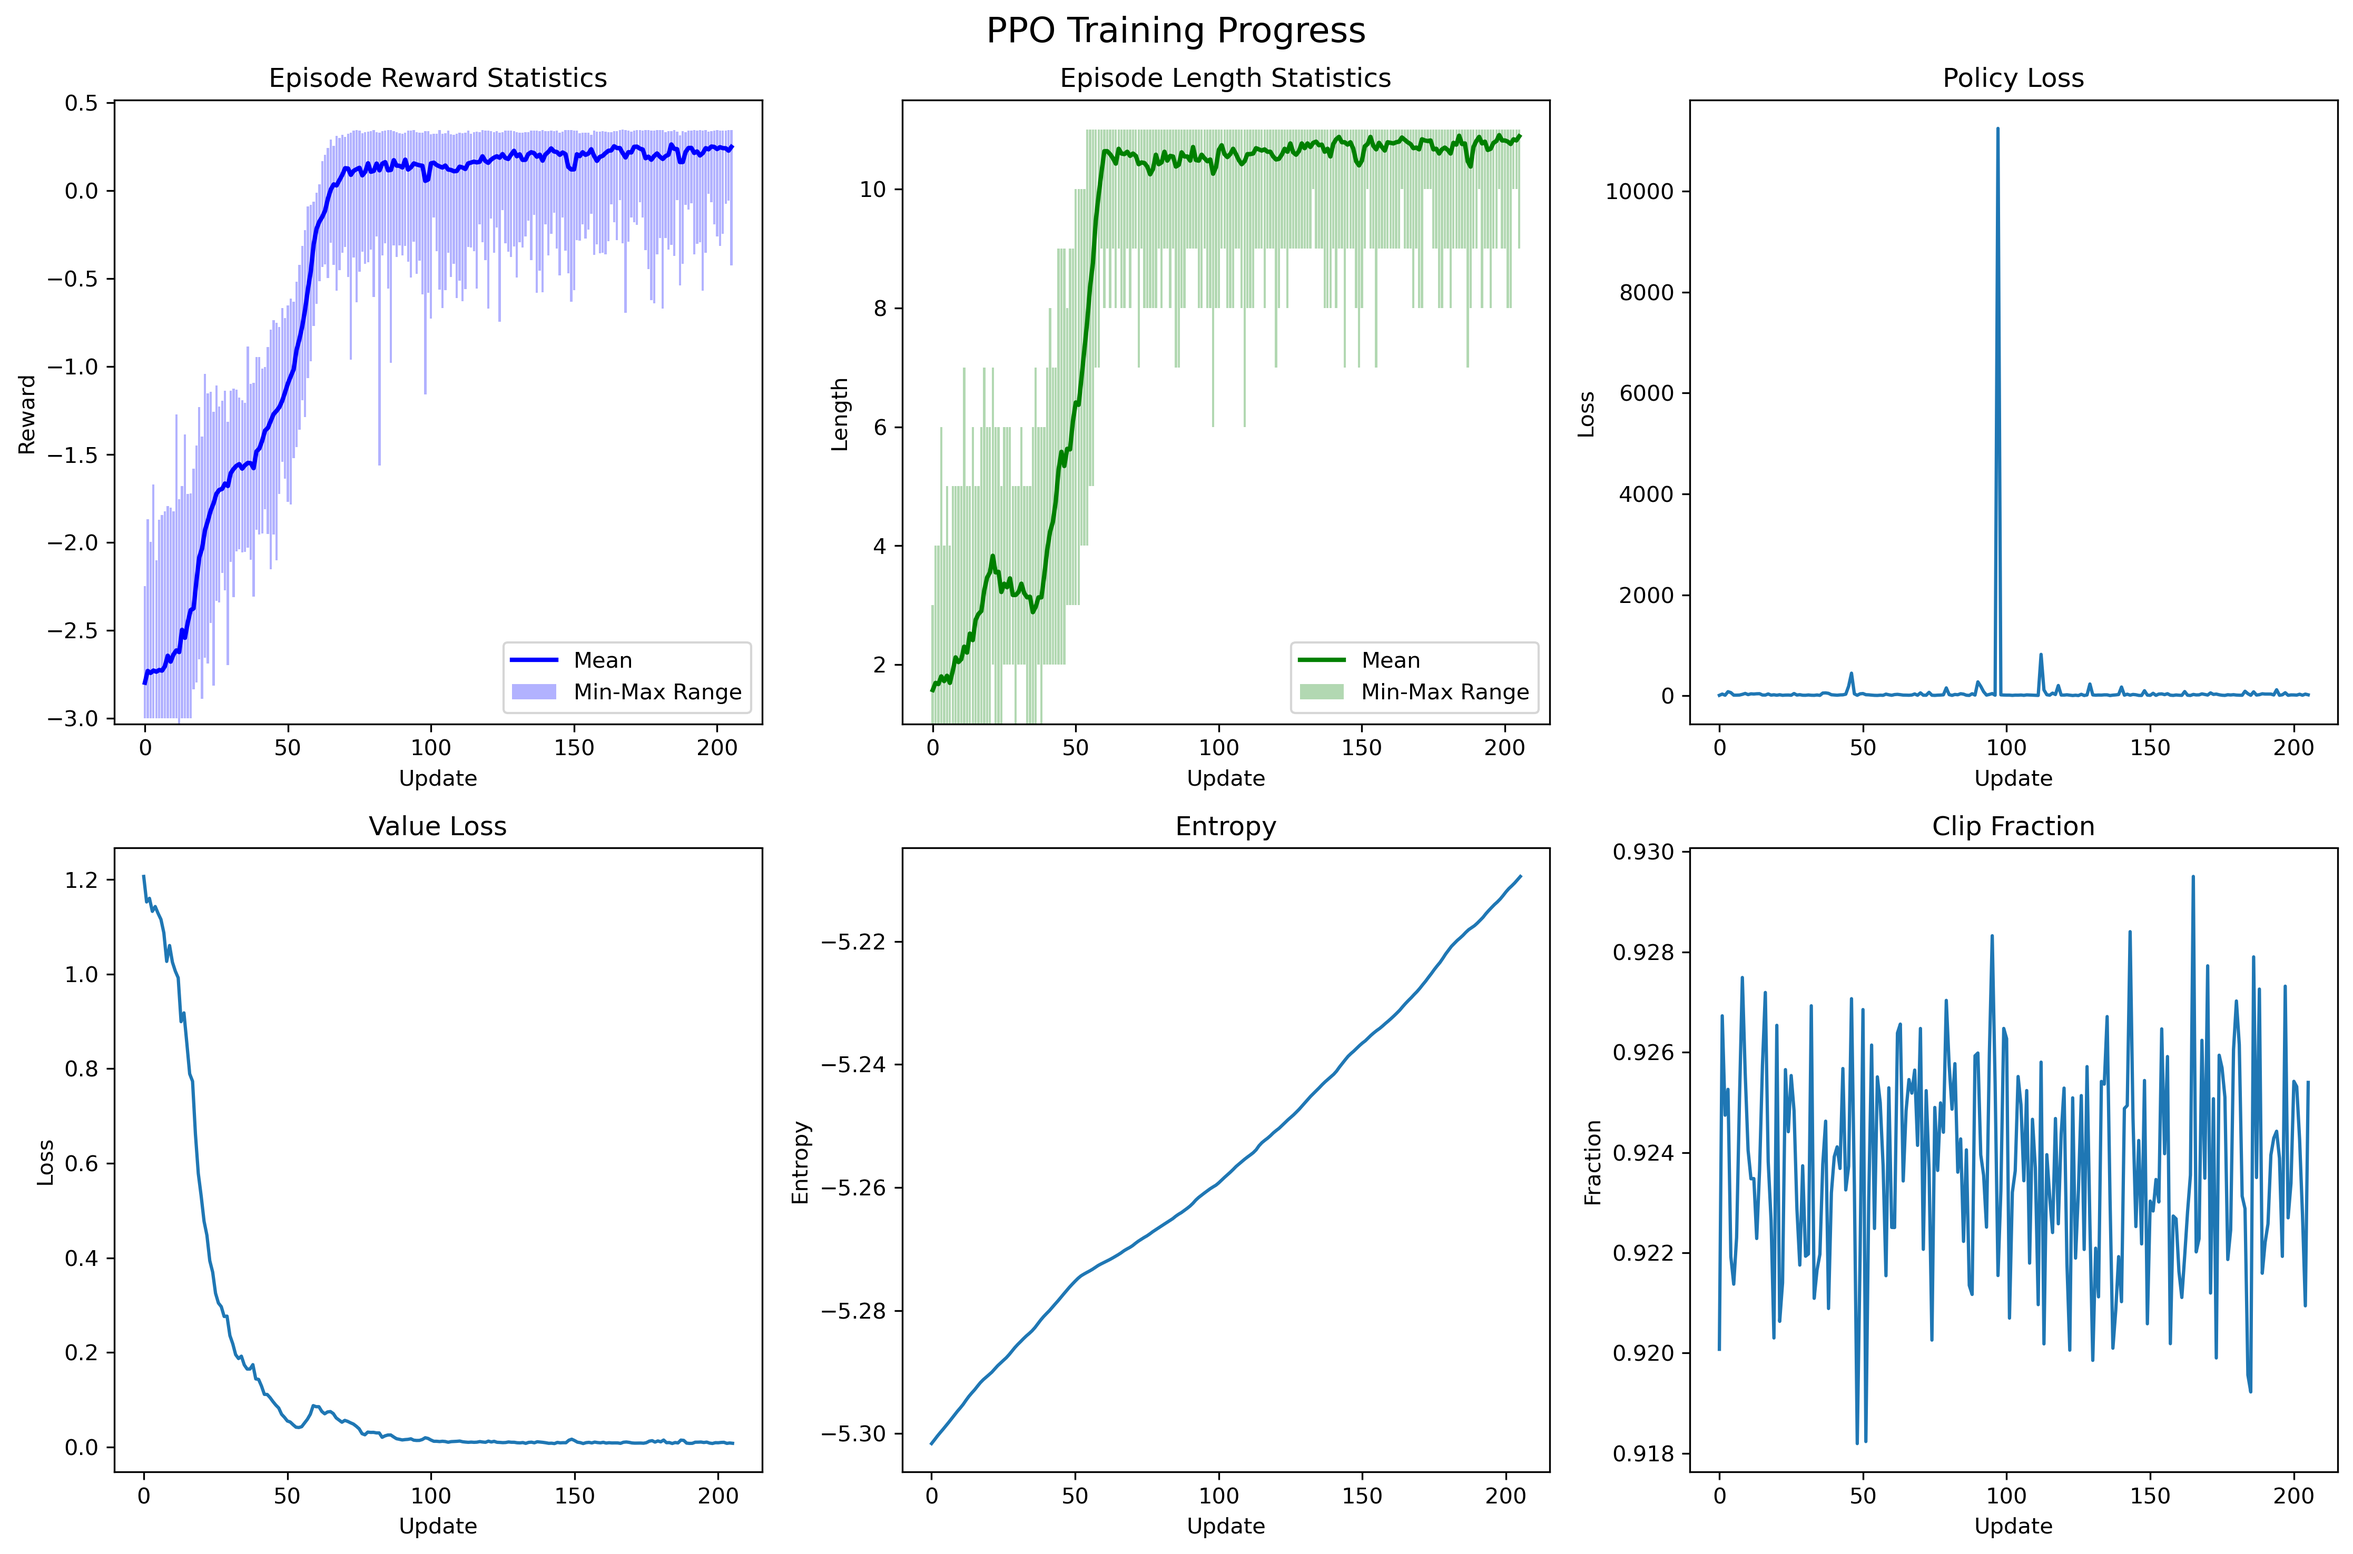
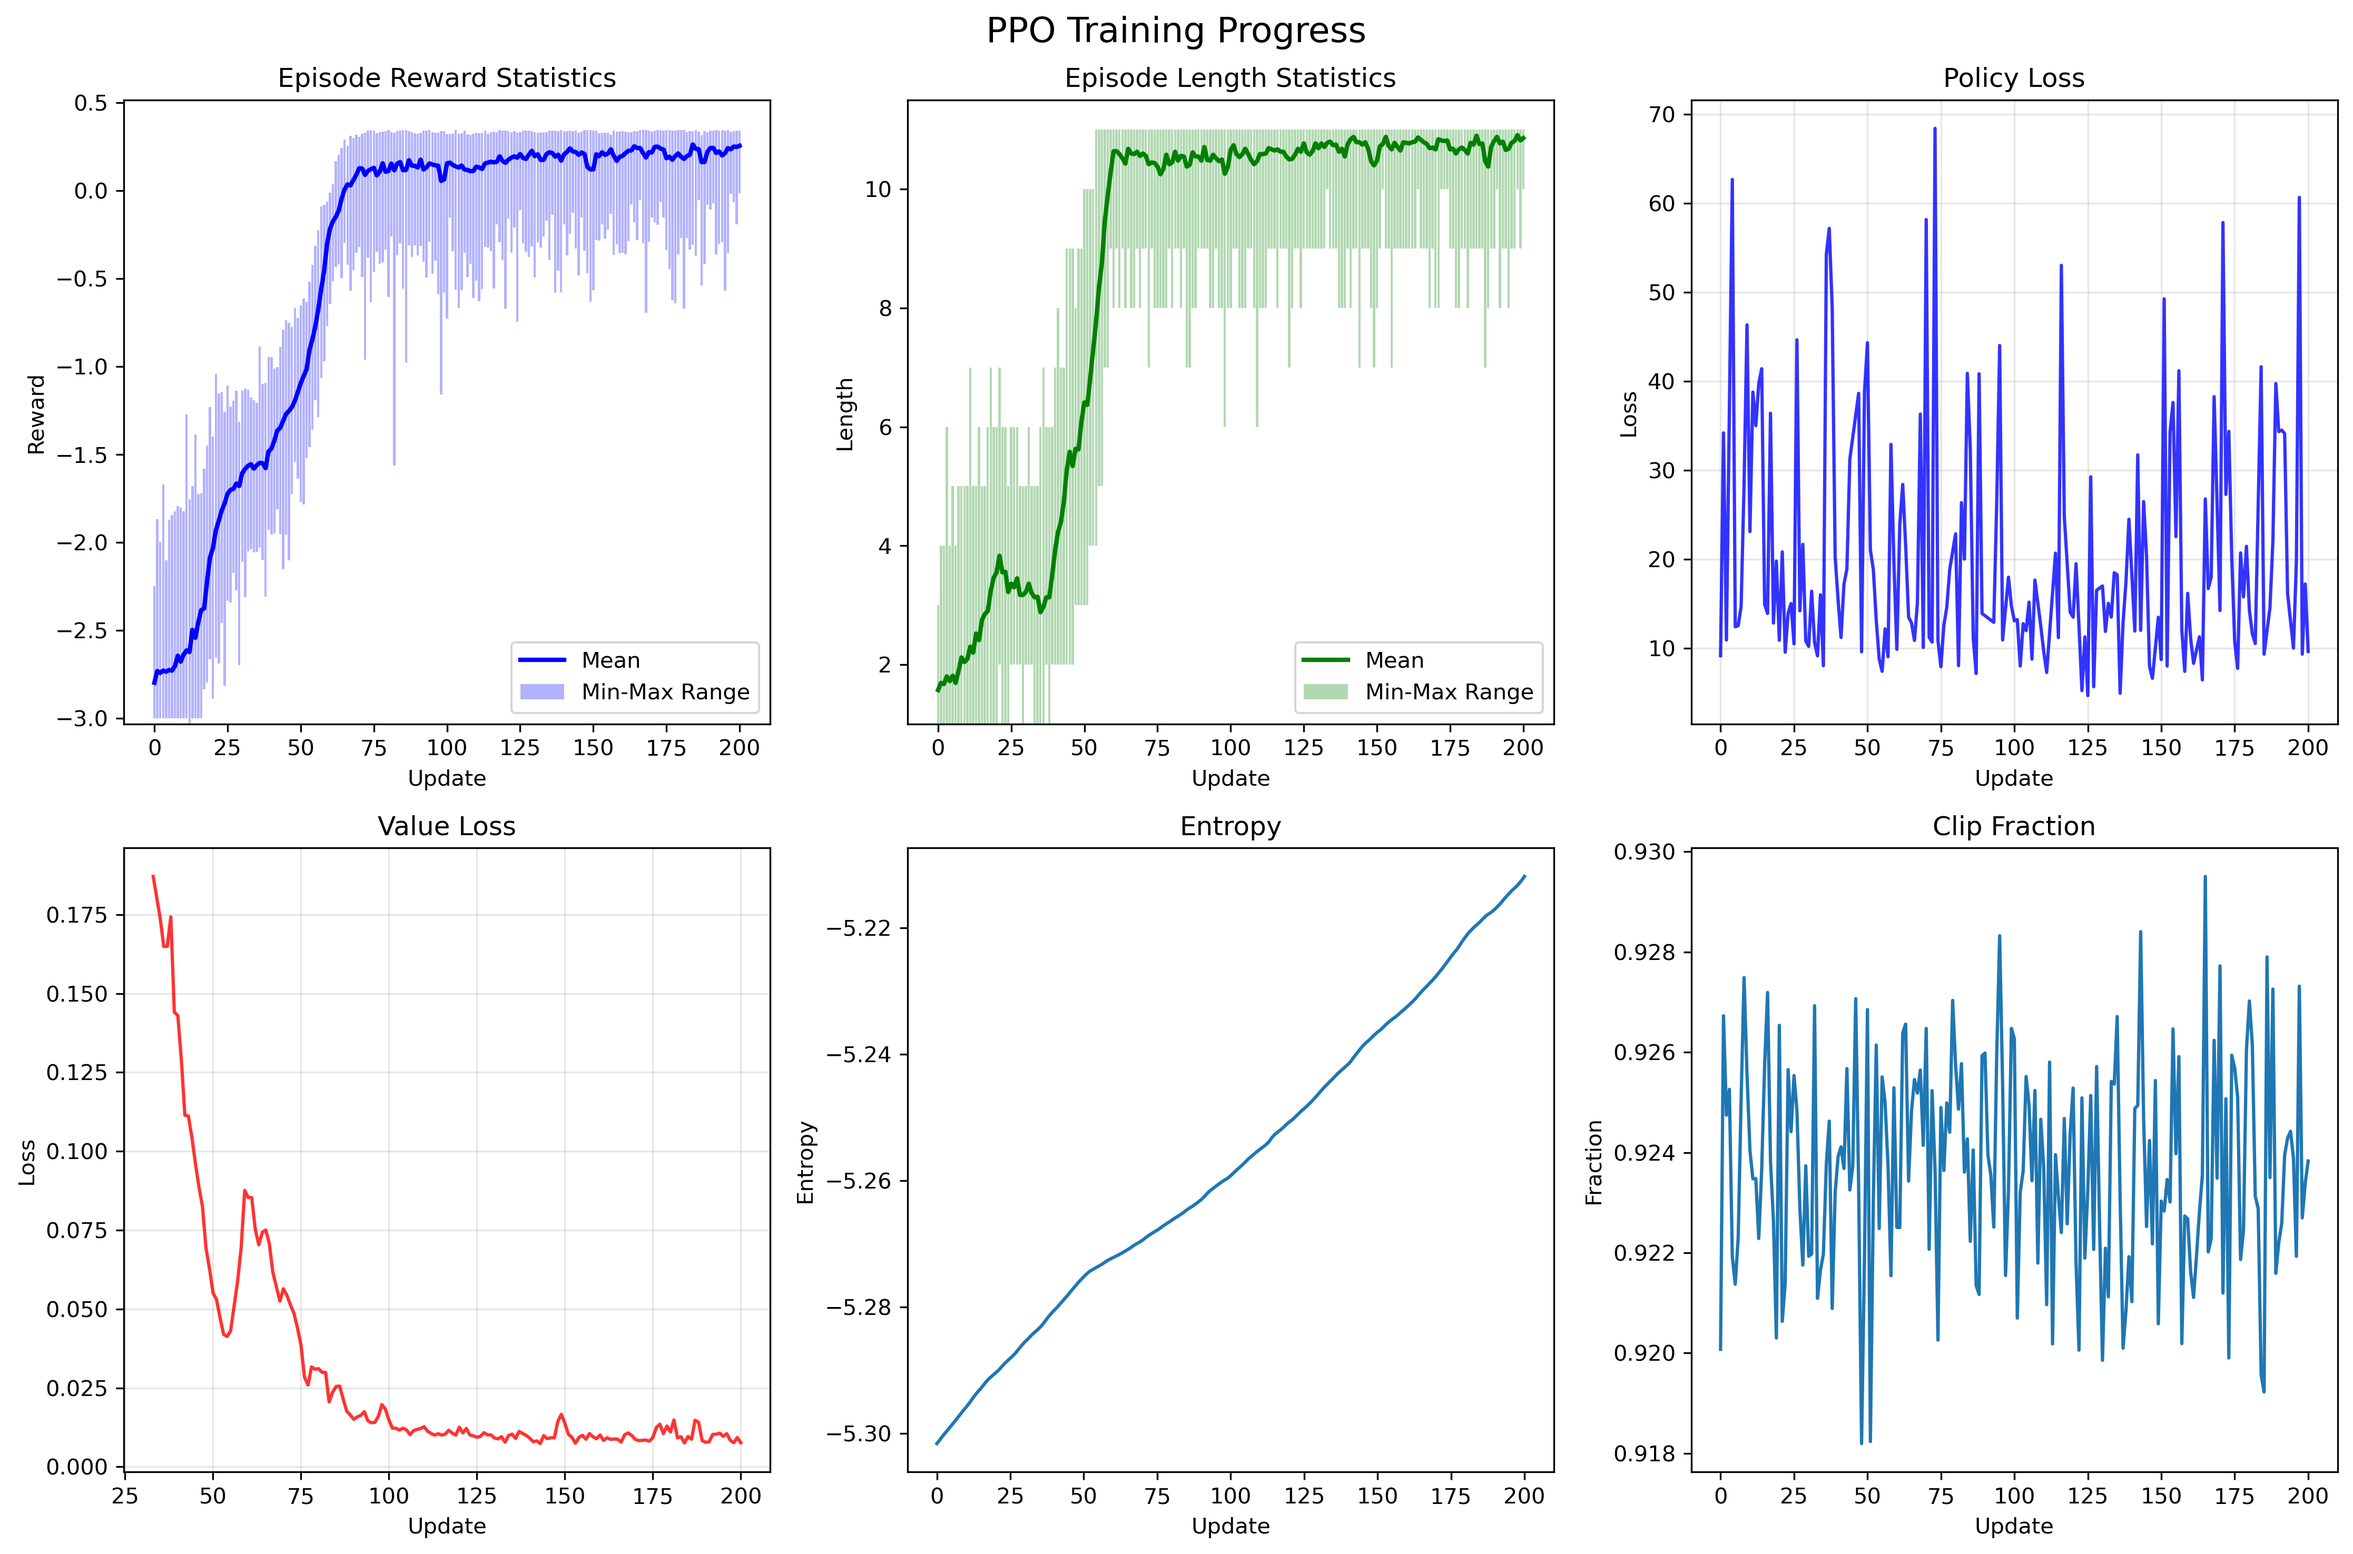
PPO MP example

diff --git a/example/ppo_FigState_BumpAction/train_ppo_mp.py b/example/ppo_FigState_BumpAction/train_ppo_mp.py
@@ -103,7 +103,7 @@ def main(device='auto', resume=False):
     ppo_agent = PPO_FigState_BumpAction_MultiEnv(
         env_fns=env_fns,
         env_eval=eval_env,
-        lr=1e-5,
+        lr=1e-6,  # Initial lr = 1e-5, resume lr = 1e-6
         gamma=0.99,
         gae_lambda=0.98,
         clip_epsilon=0.2,
@@ -170,5 +170,5 @@ if __name__ == "__main__":
     GPU_ID = 0
     device = f'cuda:{GPU_ID}' if torch.cuda.is_available() else 'cpu'
     
-    main(device=device)
+    main(device=device, resume=True)
     

diff --git a/model/ppo.py b/model/ppo.py
@@ -745,7 +745,7 @@ class PPO_FigState_BumpAction():
     
     def load_model(self, path: str):
         '''Load a saved model'''
-        checkpoint = torch.load(path, map_location=self.device)
+        checkpoint = torch.load(path, map_location=self.device, weights_only=False)
         self.actor_critic.load_state_dict(checkpoint['actor_critic_state_dict'])
         self.optimizer.load_state_dict(checkpoint['optimizer_state_dict'])
         self.training_stats.update(checkpoint['training_stats'])
